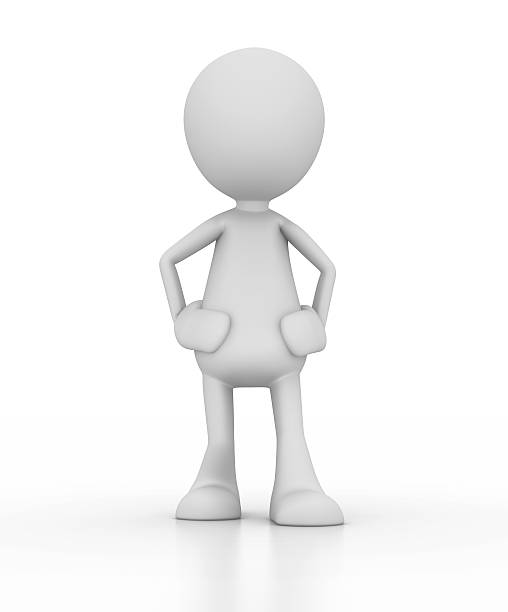
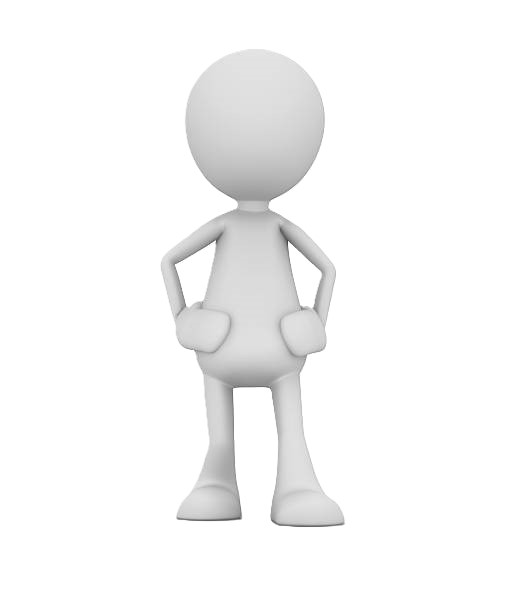
bonhomme2

diff --git a/readmes/Chapter1.md b/readmes/Chapter1.md
@@ -3,7 +3,7 @@
 Data empowers us to uncover hidden insights—imagine using it to create the next superstar!<br><br>
 
 <div style="text-align: center;">
-  <img src="assets/media/bonhomme.jpg" alt="bonhomme" class="intro-bonhomme">
+  <img src="assets/media/bonhomme2.jpg" alt="bonhomme2" class="intro-bonhomme2">
 </div>
 <br><br>
 
